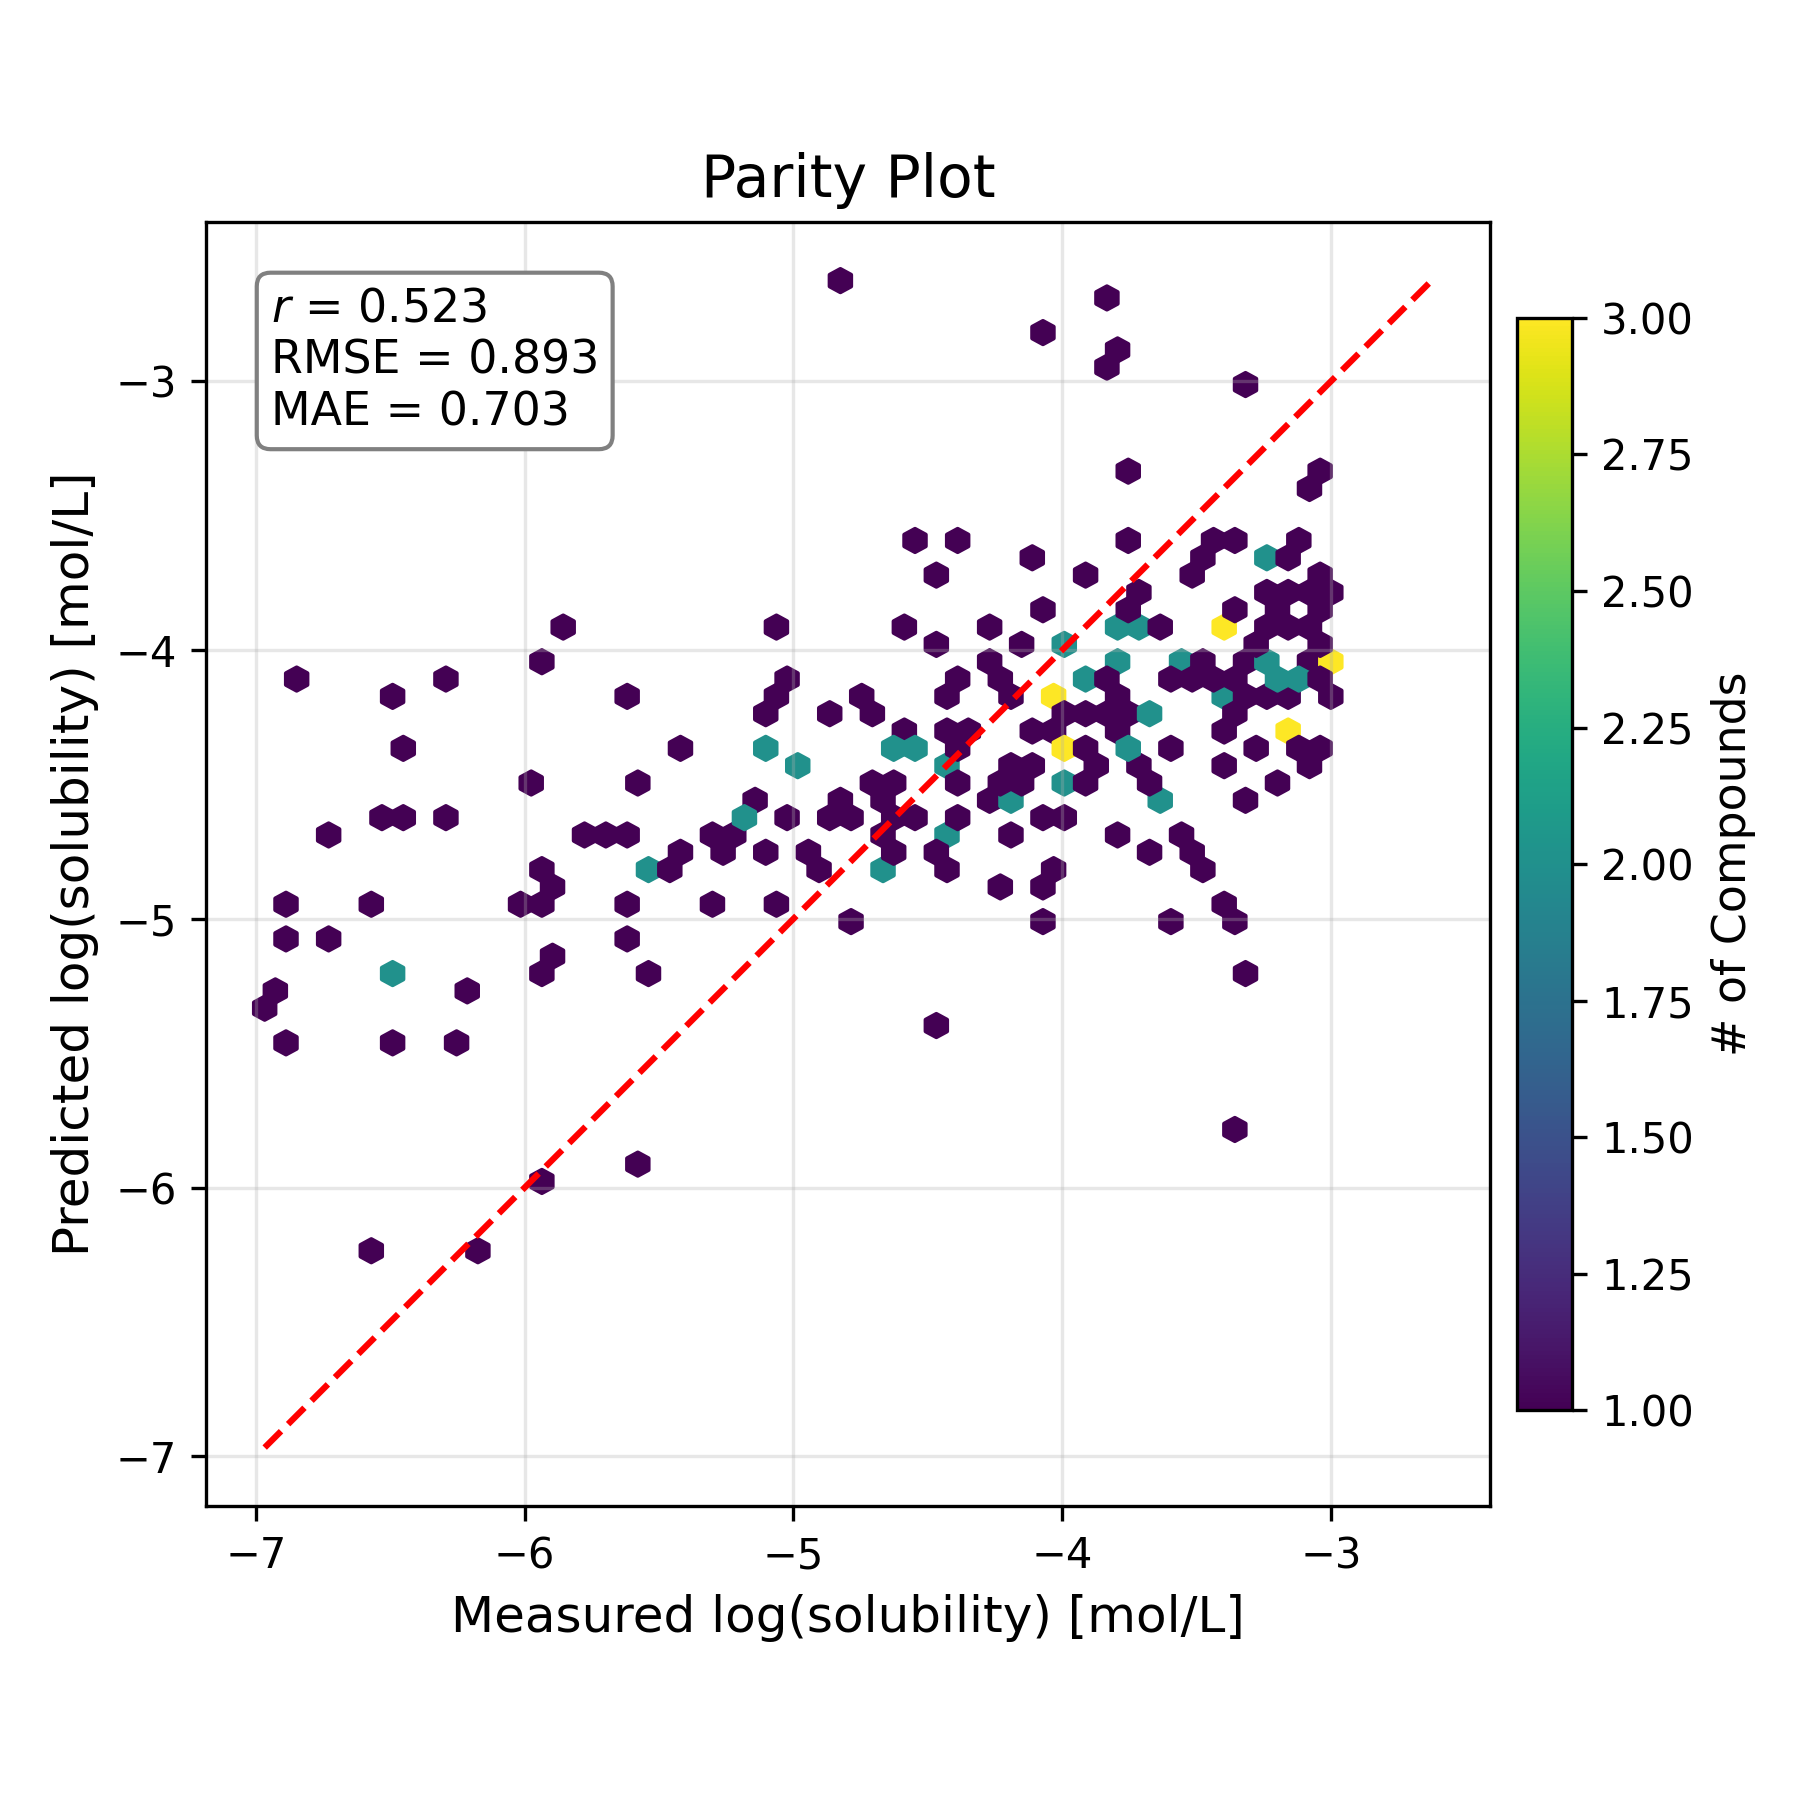
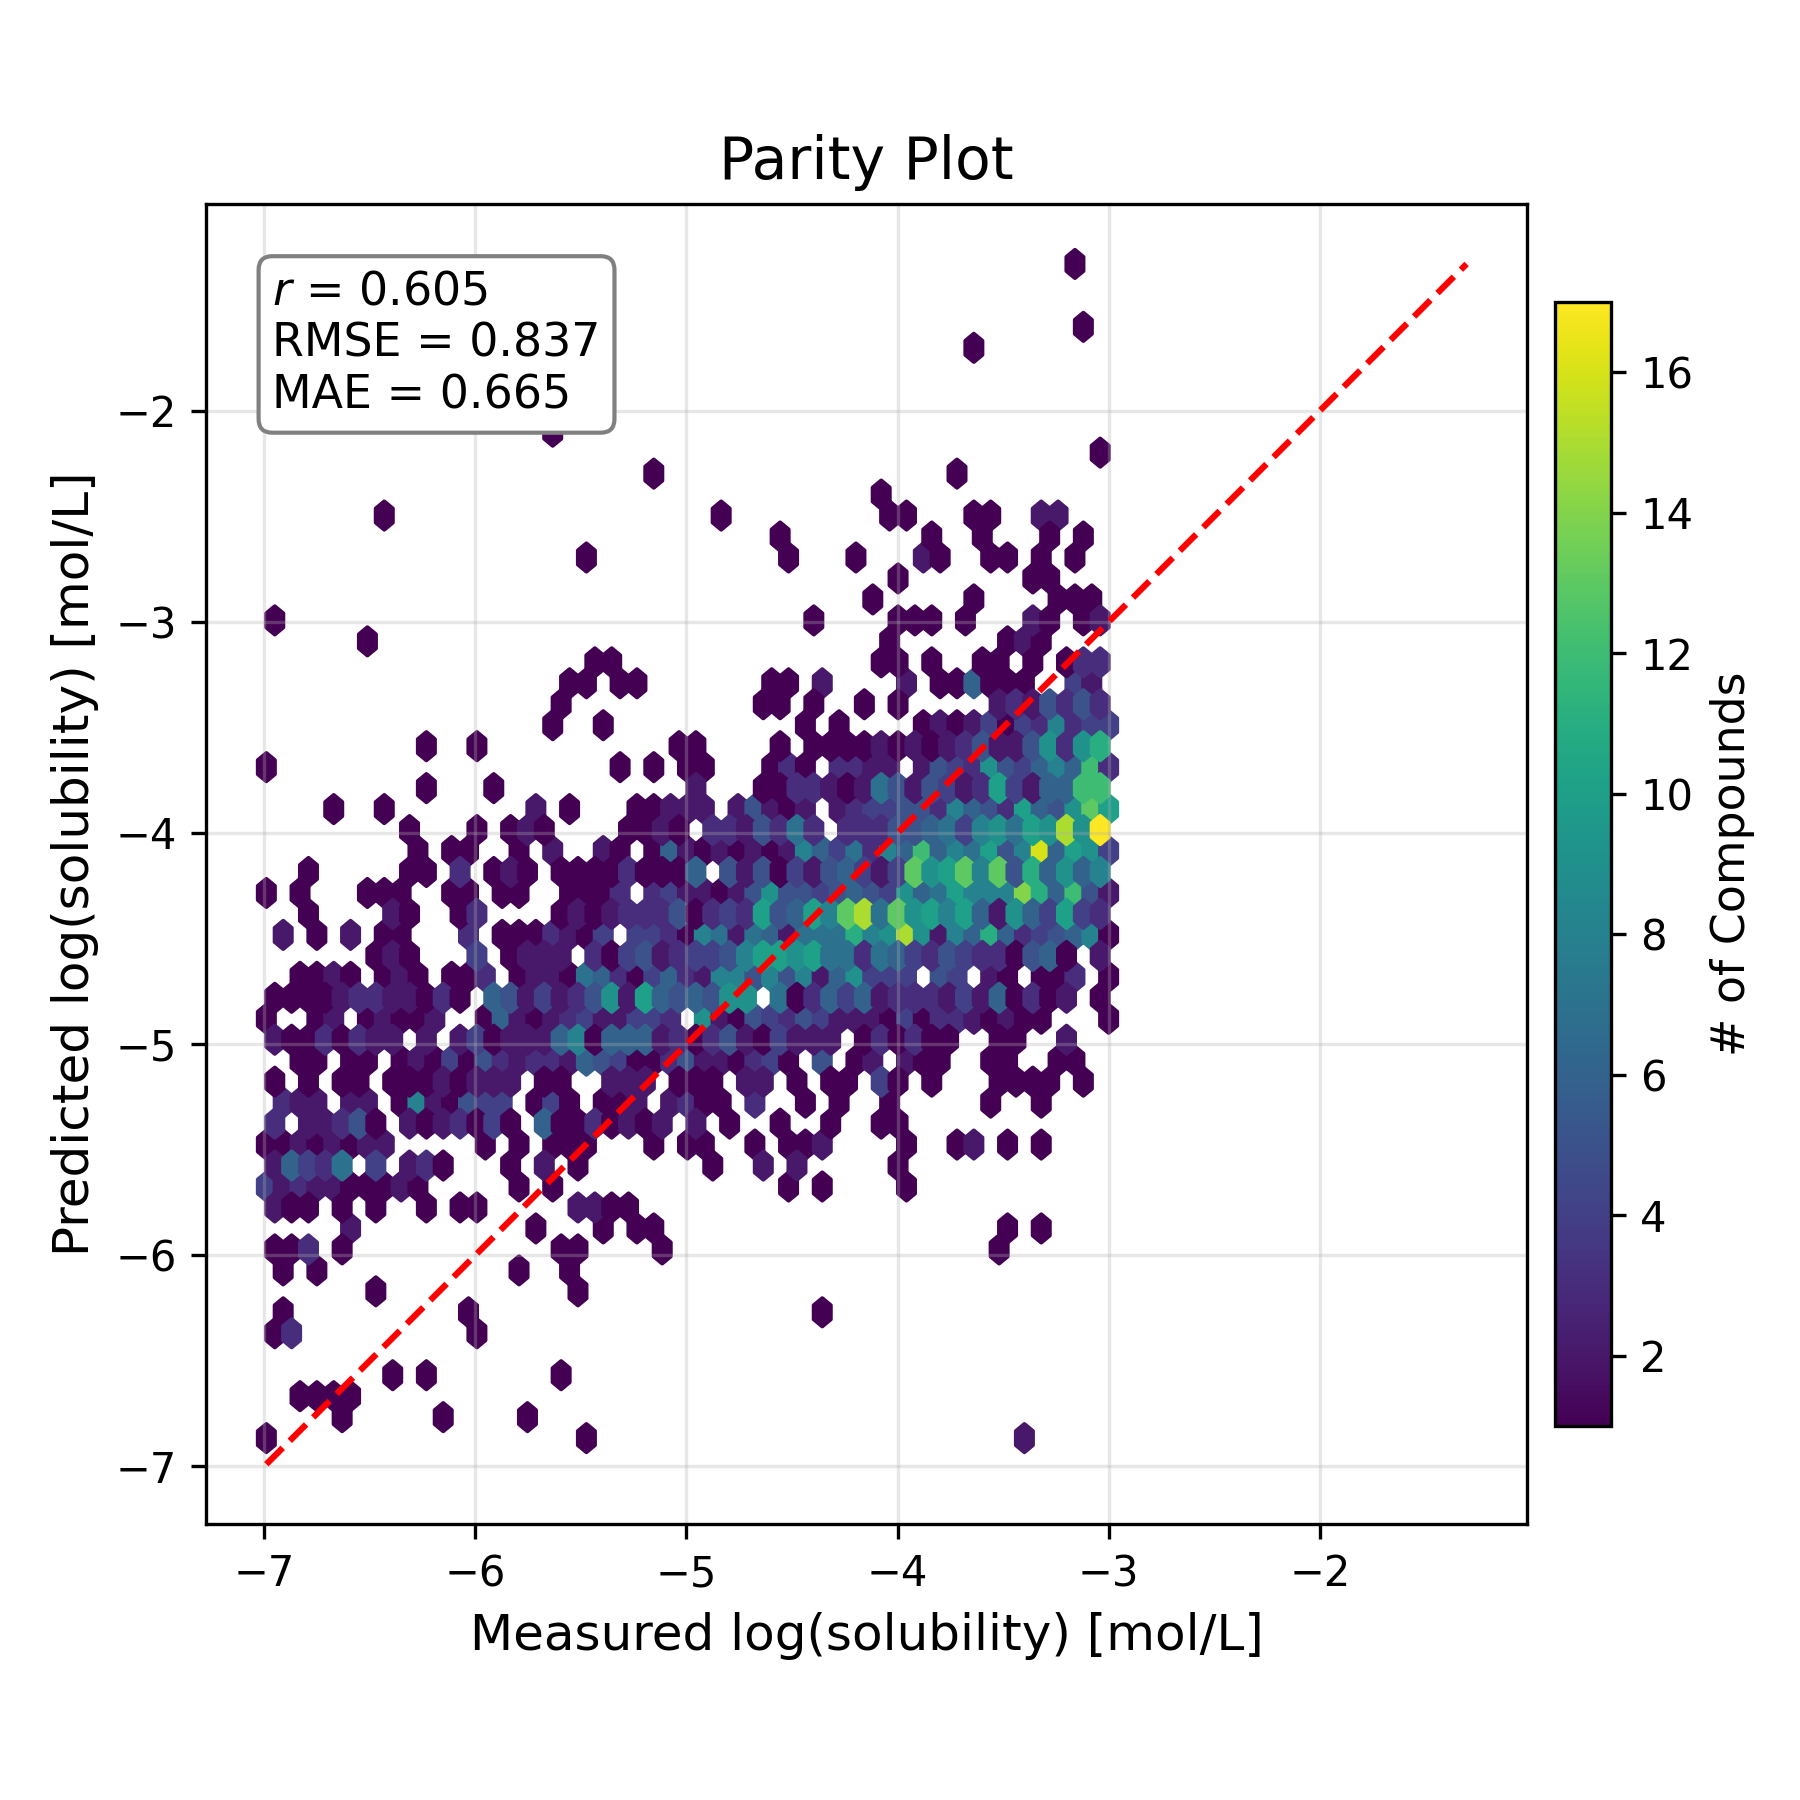
kinda working version

diff --git a/main.py b/main.py
@@ -314,10 +314,6 @@ if __name__ == "__main__":
     df = df[(df["logS"] < -3) & (df["logS"] > -7)].reset_index(drop=True)
     print(f"Dropping samples outside of bounds reduces to {df.shape[0]} entries")
 
-    # random downsampling
-    df = df.sample(n=256, random_state=42).reset_index(drop=True)
-    print(f"Random downsampled to {df.shape[0]} entries")
-
     # feature calculation
     feature_df = pd.DataFrame(columns=DESCRIPTORS, data=df["SMILES"].map(_f).to_list())
     feature_df = feature_df.dropna(axis=1)
@@ -359,7 +355,7 @@ if __name__ == "__main__":
         sisso_df, 
         target_col="logS", 
         force_include=["MolLogP", "MolMR", "TPSA_norm", "MolWt", "HeavyAtomCount", "AromaticProportion"], 
-        n_keep=50,
+        n_keep=20,
     )
 
     # model training
@@ -368,10 +364,10 @@ if __name__ == "__main__":
         sisso_df,
         use_gpu=True,
         operators=["+", "-", "*", "/", "pow(2)", "log", "sqrt"],
-        n_term=3,  # terms in final equation - could do a scree plot to determine this
+        n_term=2,  # terms in final equation - could do a scree plot to determine this
         initial_screening=None,  # done manually
         n_expansion=2,  # hyperparameter, default 3
-        k=100,  # hyperparameter, default 20
+        k=20,  # hyperparameter, default 20
     )
 
     # Run the SISSO algorithm to get the interpretable model with the highest accuracy
